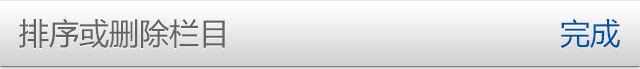
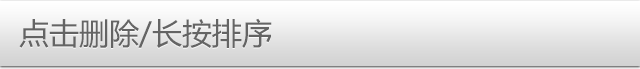
栏目自定义

Changed region(s): [[0.0312, 0.2609, 0.4375, 0.6957], [0.875, 0.2609, 0.9688, 0.6957]]

diff --git a/JiaodongOnlineNews/Classes/Controllers/JDONewsViewController.m b/JiaodongOnlineNews/Classes/Controllers/JDONewsViewController.m
@@ -14,7 +14,7 @@
 #import "JDOChannelSetting.h"
 #define News_Navbar_Height 35.0f
 
-@interface JDONewsViewController()
+@interface JDONewsViewController() <JDOChannelSettingDelegate>
 
 @property (nonatomic,strong) NSArray *pageInfos; // 新闻页面基本信息
 @property (nonatomic,strong) JDOReadDB *readDB; // 新闻页面基本信息
@@ -26,6 +26,7 @@
     BOOL pageControlUsed;
     int lastCenterPageIndex;
     float channelPaneHeight; // 自定义栏目面板的高度
+    UIView *settingBackground;
 }
 
 - (void)didReceiveMemoryWarning{
@@ -34,16 +35,95 @@
 
 - (id)initWithNibName:(NSString *)nibNameOrNil bundle:(NSBundle *)nibBundleOrNil{
     if(self = [super initWithNibName:nibNameOrNil bundle:nibBundleOrNil]){
-        _pageInfos = @[
-           [[JDONewsCategoryInfo alloc] initWithReuseId:@"Local" title:@"烟台" channel:@"16"],
-           [[JDONewsCategoryInfo alloc] initWithReuseId:@"Important" title:@"要闻" channel:@"7"],
-           [[JDONewsCategoryInfo alloc] initWithReuseId:@"Social" title:@"社会" channel:@"11"],
-           [[JDONewsCategoryInfo alloc] initWithReuseId:@"Entertainment" title:@"娱乐" channel:@"12"],
-           [[JDONewsCategoryInfo alloc] initWithReuseId:@"Entertainment" title:@"娱乐" channel:@"12"],
-           [[JDONewsCategoryInfo alloc] initWithReuseId:@"Entertainment" title:@"娱乐" channel:@"12"],
-           [[JDONewsCategoryInfo alloc] initWithReuseId:@"Entertainment" title:@"娱乐" channel:@"12"],
-           [[JDONewsCategoryInfo alloc] initWithReuseId:@"Sport" title:@"体育" channel:@"13"],
-           ];
+        NSUserDefaults *userDefault = [NSUserDefaults standardUserDefaults];
+        if(![Reachability isEnableNetwork]){
+            // 无网络时，若已经在UserDefault中缓存过栏目列表，则从UserDefault中读取，否则只显示一个烟台栏目
+            NSArray *channelList = [userDefault objectForKey:@"channel_list"];
+            if(channelList == nil){
+                _pageInfos = @[[[JDONewsCategoryInfo alloc] initWithReuseId:@"Local" title:@"烟台" channel:@"16"]];
+            }else{
+                NSMutableArray *tempList = [NSMutableArray array];
+                for (int i=0; i<channelList.count; i++) {
+                    NSDictionary *channel = [channelList objectAtIndex:i];
+                    NSString *channelId = [channel objectForKey:@"id"];
+                    NSString *channelName = [channel objectForKey:@"channelname"];
+                    JDONewsCategoryInfo *categoryInfo = [[JDONewsCategoryInfo alloc] initWithReuseId:channelId title:channelName channel:channelId];
+                    [tempList addObject:categoryInfo];
+                }
+                _pageInfos = [NSArray arrayWithArray:tempList];
+            }
+        }else{
+            // 从网络获取栏目列表，因初始化的时候需要栏目总数量等关键数据，必须完全获得栏目信息才能进行后续操作，使用同步网络请求
+//            NSString *channelsUrl = [SERVER_QUERY_URL stringByAppendingString:[NSString stringWithFormat:@"/%@",GET_CHANNELS]];
+//            NSError *error ;
+//            
+//            NSData *jsonData = [NSData dataWithContentsOfURL:[NSURL URLWithString:channelsUrl] options:NSDataReadingUncached error:&error];
+//            if(error != nil){
+//                
+//                return;
+//            }
+//            NSDictionary *jsonObject = [jsonData objectFromJSONData];
+//            
+//            // 每次广告图更新后的URL会变动，则URL缓存就能够区分出是从本地获取还是从网络获取，没有必要使用版本号机制
+//            NSString *advServerURL = [jsonObject valueForKey:@"path"];
+//            NSUserDefaults *userDefault = [NSUserDefaults standardUserDefaults];
+//            NSString *advLocalURL = [userDefault objectForKey:@"adv_url"];
+//            
+//            // 第一次加载或者NSUserDefault被清空，以及服务器地址与本地不一致时，从网络加载图片。
+//            if(advLocalURL ==nil || ![advLocalURL isEqualToString:advServerURL]){
+//                NSString *advImgUrl = [SERVER_RESOURCE_URL stringByAppendingString:[jsonObject valueForKey:@"path"]];
+//                // 同步方法不使用URLCache，若使用AFNetworking则无法禁用缓存
+//                NSData *imgData = [NSData dataWithContentsOfURL:[NSURL URLWithString:advImgUrl] options:NSDataReadingUncached error:&error];
+//                if(error != nil){
+//                    NSLog(@"获取广告页图片出错:%@",error);
+//                    return;
+//                }
+//                UIImage *downloadImage = [UIImage imageWithData:imgData];
+//                // 同比缩放
+//                //            advImage=[JDOImageUtil adjustImage:downloadImage toSize:CGSizeMake(advertise_img_width, advertise_img_height) type:ImageAdjustTypeShrink];
+//                // 调整为后台上传多套广告图来适配不同屏幕尺寸，不需要再在客户端进行图片调整也可以。
+//                advImage = [JDOImageUtil resizeImage:downloadImage inRect:CGRectMake(0,0, 320*[UIScreen mainScreen].scale, App_Height*[UIScreen mainScreen].scale)];
+//                //            advImage = downloadImage;
+//                
+//                // 图片加载成功后才保存服务器版本号
+//                [userDefault setObject:advServerURL forKey:@"adv_url"];
+//                [userDefault synchronize];
+//                // 图片缓存到磁盘
+//                [imgData writeToFile:NIPathForDocumentsResource(advertise_file_name) options:NSDataWritingAtomic error:&error];
+//                if(error != nil){
+//                    NSLog(@"磁盘缓存广告页图片出错:%@",error);
+//                    return;
+//                }
+//            }else{
+//                // 从磁盘读取，也可以使用[NSData dataWithContentsOfFile];
+//                NSFileManager * fm = [NSFileManager defaultManager];
+//                NSData *imgData = [fm contentsAtPath:NIPathForDocumentsResource(advertise_file_name)];
+//                if(imgData){
+//                    // 同比缩放
+//                    //                advImage = [JDOImageUtil adjustImage:[UIImage imageWithData:imgData] toSize:CGSizeMake(advertise_img_width, advertise_img_height) type:ImageAdjustTypeShrink];
+//                    advImage = [JDOImageUtil resizeImage:[UIImage imageWithData:imgData] inRect:CGRectMake(0,0, 320*[UIScreen mainScreen].scale, App_Height*[UIScreen mainScreen].scale)];
+//                    //                advImage = [UIImage imageWithData:imgData];
+//                }else{
+//                    // 从本地路径加载缓存广告图失败,使用默认广告图
+//                    advImage = [UIImage imageNamed:@"default_adv"];
+//                    // 本地广告图不存在,则UserDefault中缓存的adv_url也应该失效
+//                    NSUserDefaults *userDefault = [NSUserDefaults standardUserDefaults];
+//                    [userDefault removeObjectForKey:@"adv_url"];
+//                    [userDefault synchronize];
+//                }
+//            }
+        }
+        
+//        _pageInfos = @[
+//           [[JDONewsCategoryInfo alloc] initWithReuseId:@"Local" title:@"烟台" channel:@"16"],
+//           [[JDONewsCategoryInfo alloc] initWithReuseId:@"Important" title:@"要闻" channel:@"7"],
+//           [[JDONewsCategoryInfo alloc] initWithReuseId:@"Social" title:@"社会" channel:@"11"],
+//           [[JDONewsCategoryInfo alloc] initWithReuseId:@"Entertainment" title:@"娱乐" channel:@"12"],
+//           [[JDONewsCategoryInfo alloc] initWithReuseId:@"Entertainment" title:@"娱乐" channel:@"12"],
+//           [[JDONewsCategoryInfo alloc] initWithReuseId:@"Entertainment" title:@"娱乐" channel:@"12"],
+//           [[JDONewsCategoryInfo alloc] initWithReuseId:@"Entertainment" title:@"娱乐" channel:@"12"],
+//           [[JDONewsCategoryInfo alloc] initWithReuseId:@"Sport" title:@"体育" channel:@"13"]
+//           ];
         self.readDB = [[JDOReadDB alloc] init];
     }
     return self;
@@ -75,27 +155,28 @@
 
 - (void)showChannelPane:(UIButton *)sender{
     [SharedAppDelegate.deckController setEnabled:false];
-    UIView *background = [[UIView alloc] initWithFrame:CGRectMake(0, 44, 320, App_Height)];
-    [background setBackgroundColor:[UIColor blackColor]];
-    background.alpha = 0;
+    settingBackground = [[UIView alloc] initWithFrame:CGRectMake(0, 44, 320, App_Height)];
+    [settingBackground setBackgroundColor:[UIColor blackColor]];
+    settingBackground.alpha = 0;
     UITapGestureRecognizer *gesture = [[UITapGestureRecognizer alloc] initWithTarget:self action:@selector(closeChannelPane:)];
-    [background addGestureRecognizer:gesture];
-    [self.view insertSubview:background aboveSubview:self.scrollView];
+    [settingBackground addGestureRecognizer:gesture];
+    [self.view insertSubview:settingBackground aboveSubview:self.scrollView];
     // 计算需要的panel高度
     channelPaneHeight = 300;
     if (self.channelPane == nil) {
         self.channelPane = [[UIView alloc] initWithFrame:CGRectMake(0, 44-channelPaneHeight, 320, channelPaneHeight+13.5/*下边框和阴影高度*/)];
         self.channelPane.backgroundColor = [UIColor clearColor];
         JDOChannelSetting *content = [[JDOChannelSetting alloc] initWithFrame:CGRectMake(0, 0, 320, channelPaneHeight)];
+        content.delegate = self;
         [self.channelPane addSubview:content];
         UIImageView *bottomEdge = [[UIImageView alloc] initWithFrame:CGRectMake(0, channelPaneHeight, 320, 13.5)];
         bottomEdge.image = [UIImage imageNamed:@"channel_background"];
         [self.channelPane addSubview:bottomEdge];
     }
-    [self.view insertSubview:self.channelPane aboveSubview:background];
+    [self.view insertSubview:self.channelPane aboveSubview:settingBackground];
     [UIView animateWithDuration:0.5 animations:^{
         self.channelPane.frame = CGRectMake(0, 44, 320, channelPaneHeight+13.5);
-        background.alpha = 0.6;
+        settingBackground.alpha = 0.6;
     }];
 }
 
@@ -103,11 +184,15 @@
     [SharedAppDelegate.deckController setEnabled:true];
     [UIView animateWithDuration:0.5 animations:^{
         self.channelPane.frame = CGRectMake(0, 44-channelPaneHeight, 320, channelPaneHeight+13.5);
-        gesture.view.alpha = 0;
+        settingBackground.alpha = 0;
     } completion:^(BOOL finished) {
         [self.channelPane removeFromSuperview];
-        [gesture.view removeFromSuperview];
+        [settingBackground removeFromSuperview];
     }];
+}
+
+- (void)onSettingFinished:(JDOChannelSetting *)settingPanel{
+    [self closeChannelPane:nil];
 }
 
 

diff --git a/JiaodongOnlineNews/Classes/Views/JDOChannelSetting.m b/JiaodongOnlineNews/Classes/Views/JDOChannelSetting.m
@@ -25,6 +25,14 @@
         UIImageView *section0 = [[UIImageView alloc] initWithFrame:CGRectMake(0, 0, 320, 34.5)];
         section0.image = [UIImage imageNamed:@"channel_section0"];
         [self addSubview:section0];
+        UIButton *finishBtn = [UIButton buttonWithType:UIButtonTypeCustom];
+        finishBtn.frame = CGRectMake(275, 7, 35, 20);
+        [finishBtn setTitle:@"完成" forState:UIControlStateNormal];
+        [finishBtn setTitleColor:[UIColor colorWithHex:@"0053a1"] forState:UIControlStateNormal];
+        [finishBtn.titleLabel setFont:[UIFont systemFontOfSize:16]];
+        [finishBtn setBackgroundColor:[UIColor clearColor]];
+        [finishBtn addTarget:self action:@selector(onFinished) forControlEvents:UIControlEventTouchUpInside];
+        [self addSubview:finishBtn];
         UIImageView *section1 = [[UIImageView alloc] initWithFrame:CGRectMake(0, 150, 320, 34.5)];
         section1.image = [UIImage imageNamed:@"channel_section1"];
         [self addSubview:section1];
@@ -40,6 +48,8 @@
             [item setDelegate:self];
             if (i == 0) {   // "烟台"栏目不能移动也不能删除，包括:1.不响应单击 2.不响应长按 3.不响应排序
                 item.enabled = false;
+                [item setBackgroundImage:nil forState:UIControlStateNormal];
+                [item setTitleColor:[UIColor colorWithHex:@"969696"] forState:UIControlStateNormal];
             }
             [item addTarget:self action:@selector(addOrDelete:) forControlEvents:UIControlEventTouchUpInside];
             [selectedItems addObject:item];
@@ -57,6 +67,13 @@
         }
     }
     return self;
+}
+
+- (void)onFinished{
+    // 保存栏目
+    // 刷新界面
+    
+    [self.delegate onSettingFinished:self];
 }
 
 - (void)addOrDelete:(JDOChannelItem *)sender{

diff --git a/JiaodongOnlineNews/Classes/Views/JDOChannelSetting.h b/JiaodongOnlineNews/Classes/Views/JDOChannelSetting.h
@@ -9,6 +9,16 @@
 #import <UIKit/UIKit.h>
 #import "JDOChannelItem.h"
 
+@class JDOChannelSetting;
+
+@protocol JDOChannelSettingDelegate
+
+- (void)onSettingFinished:(JDOChannelSetting *)settingPanel;
+
+@end
+
 @interface JDOChannelSetting : UIView <JDOChannelItemDelegate>
+
+@property (nonatomic, assign) id<JDOChannelSettingDelegate> delegate;
 
 @end
